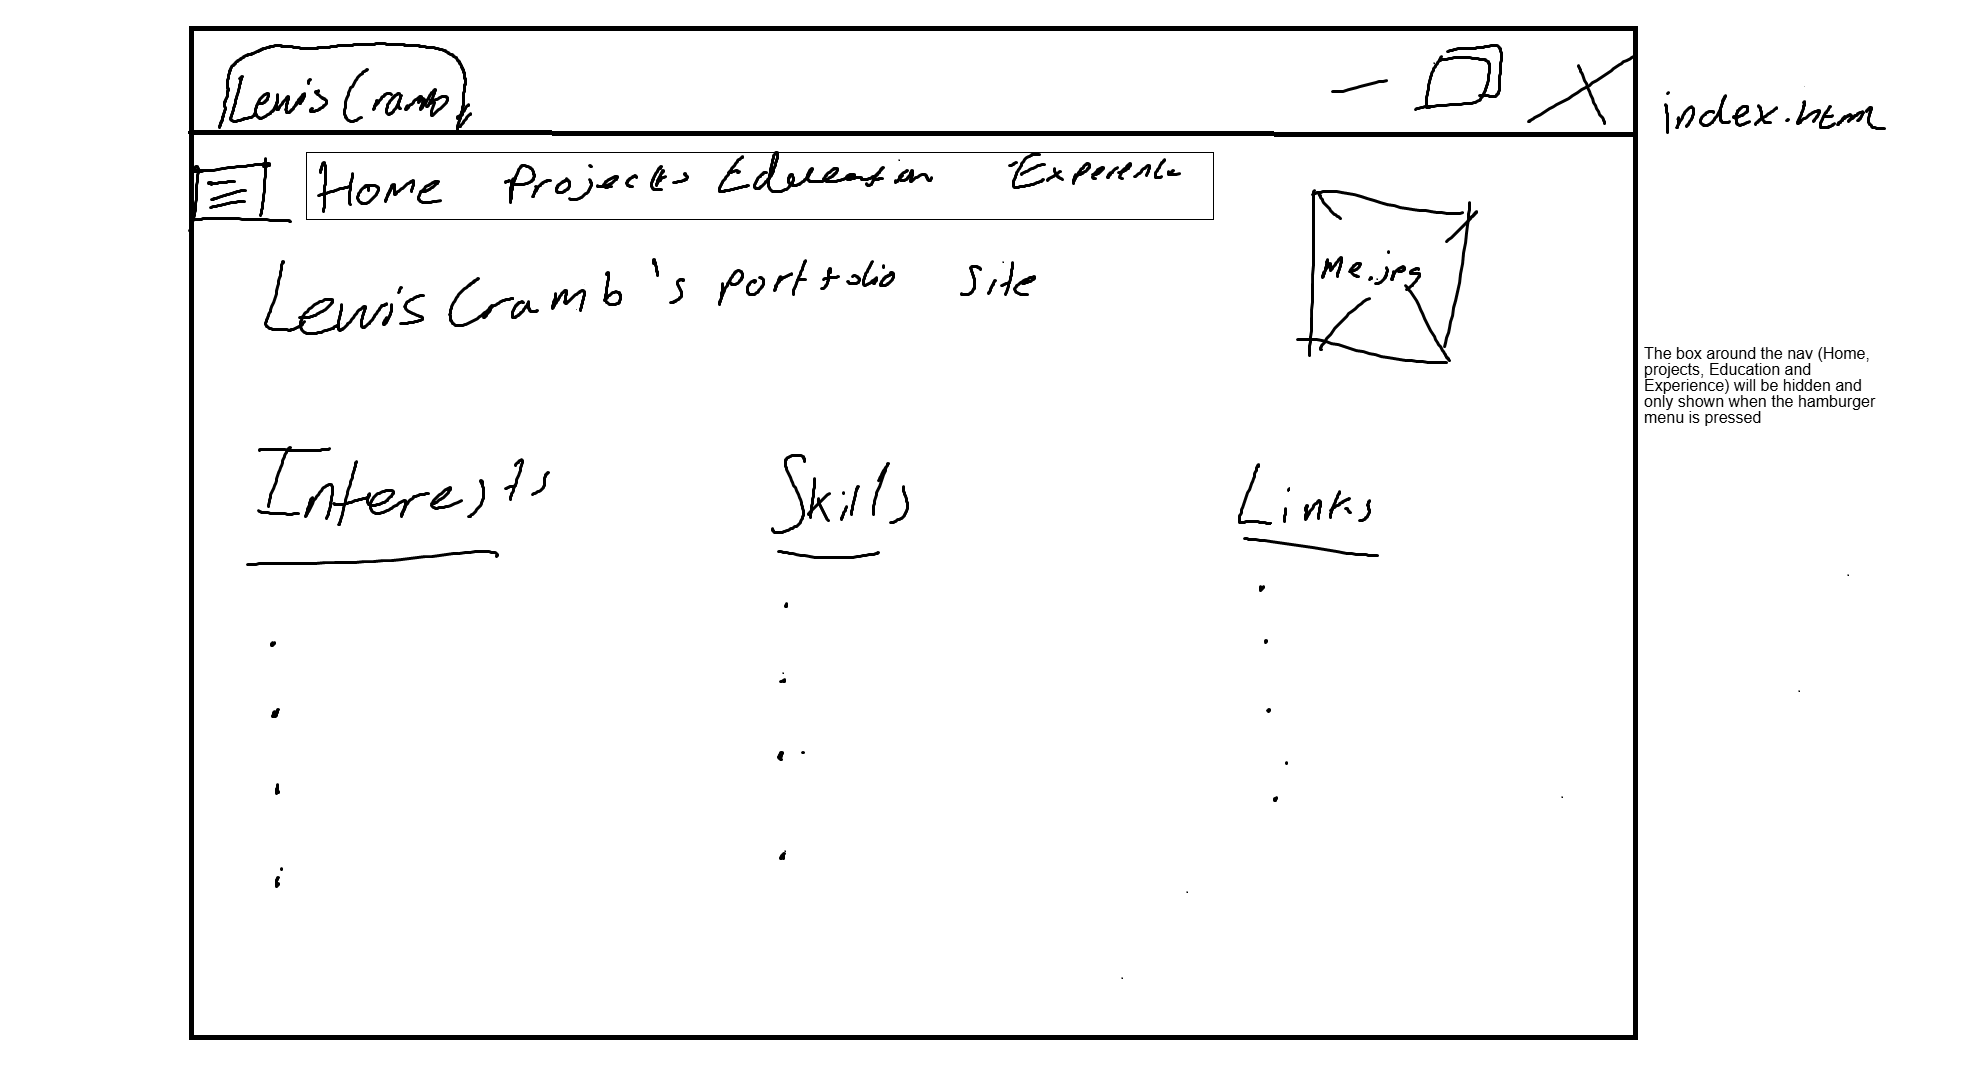
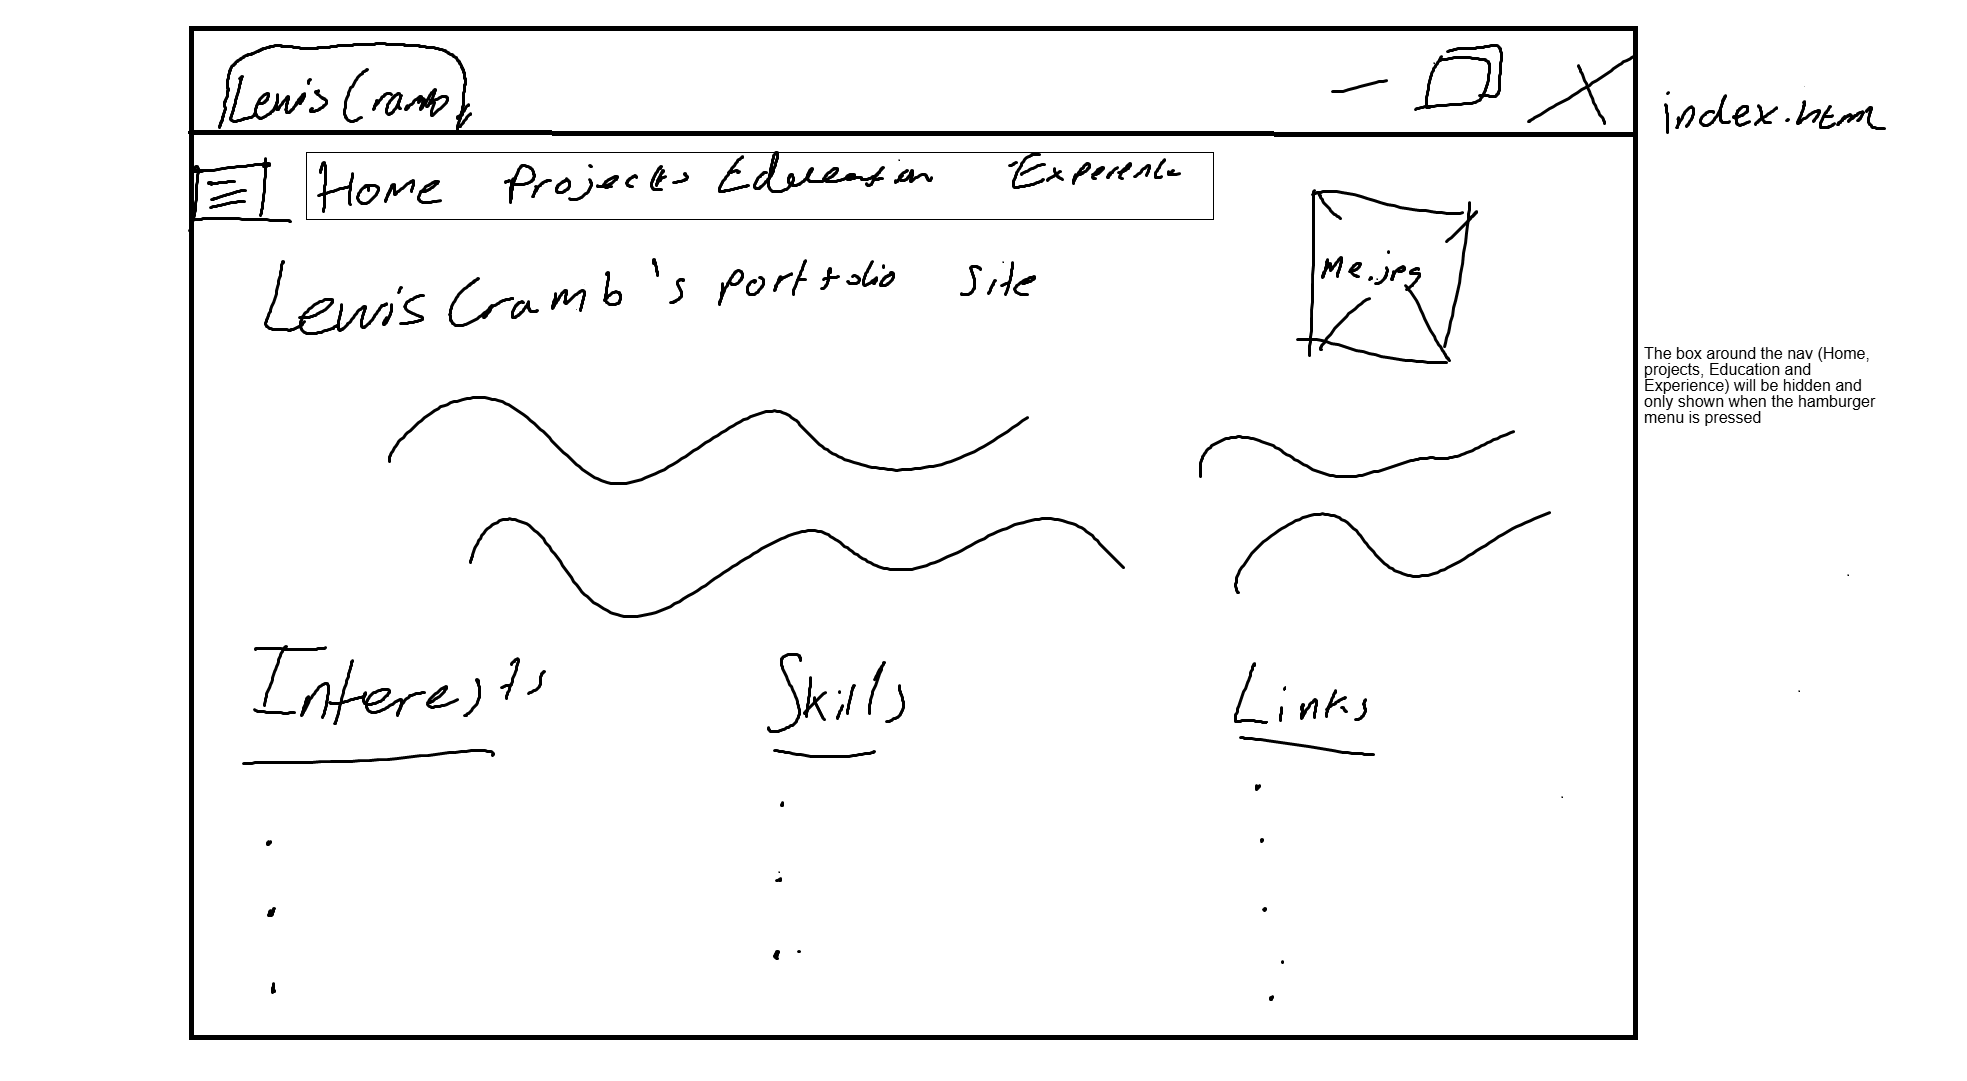
Index page css

diff --git a/HTML/index.html b/HTML/index.html
@@ -3,6 +3,7 @@
     <head>
         <title>Lewis Cramb's Portfolio</title>
         <link rel="stylesheet" href="../CSS/style.css">
+        <link rel="stylesheet" href="../CSS/index.css">
     </head>
     <body>
         <nav>
@@ -15,15 +16,28 @@
             </div>
         </nav>
 
-        <main>
+        <main> 
             <div class="topOfPage">
                 <h1 class="underlined">Lewis Cramb's Portfolio Site</h1>
                 <img id="selfImg" src="../Images/meImg.png" alt="Image of myself"/>
             </div>
 
-            <br /> <br /> <br /> <br />
+            <div id="infoDump">
+                <p> <!-- intro para -->
+                    My name is Lewis Cramb, I am a second year student at the University of Glasgow, studying towards a Bachelor's degree in Software Engineering.<br />
+                    I am a hardworking individual with a passion and desire to learn. Take this site, for example. I've learned how to write JS and how to host a site (along with a recap of HTML and CSS) just to make this work. <br />
+                    Currently, I am applying for an internship over my summer. I am keen to find a position as an intern as this allows me to apply what I have learnt to a real-world environment, which will both teach me more about how the digital world works and help me to learn real-life coding practices.
+                </p>
+                <br />
+                <p> <!-- site recap para -->
+                    As you will find out in this site, I've undertaken many different avenues to get me to where I am. I  was a Young Advisor with the Children and Young People's Commissioner Scotland from 13 until 18. This was a volunteer role where I was able to influence policy and acts written by CYPCS in order to better the lives of children across Scotland, undertaking in many different events from leading workshops to recruiting the head of the organisation alongside MSPs and even a brief stint on the BBC radio!
+                    <br />I have also spent time volunteering as a leader of my local Cub Pack. I started in the 24th Glasgow (Bearsden) Scout Group from 8 years of age, staying long enough to complete my Duke of Edinburgh Gold award and my King's Scout award before coming back as a leader to give back to those who gave loads to me.
+                    <br />Most recently I was employed by JE Restaurants Ltd, a McDonald's Franchisee, to work in my local McDonald's branch where I learned to work under pressure and in a fast paced environement, as well as how to stay busy with tasks so that customers are satisifed. 
+                </p>
+            </div>
+
             <div id="bulletLists">
-                <div id="interests">
+                <div class="lst">
                     <h2 class="underlined">Interests</h2>
                     <ul>
                         <li>Hiking</li>
@@ -32,7 +46,7 @@
                         <li>Films and TV shows</li>
                     </ul>
                 </div>
-                <div id="skills">
+                <div class="lst">
                     <h2 class="underlined">Skills</h2>
                     <ul>
                         <li>Python</li>
@@ -43,7 +57,7 @@
                         <li>High pressure environments</li>
                     </ul>
                 </div>
-                <div id="links">
+                <div class="lst">
                     <h2 class="underlined">Links</h2>
                     <ul>
                         <li><a href="https://www.linkedin.com/in/lewis-cramb/" target="_blank">LinkedIn</a></li>

diff --git a/CSS/index.css b/CSS/index.css
@@ -1,0 +1,26 @@
+/* This file is for the index page specifically */
+h1{
+    float:left ;
+    display:inline ;
+}
+
+
+
+.lst{ /* this is for all lists, hence class */
+    display:inline-grid ;
+    margin-right:310px ;
+    margin-top:100px ;
+}
+
+#bulletLists{ /* This is just for the div for positioning of all lists at once */
+    margin-top:50px;
+    display:inline-block ;
+}
+
+#selfImg{
+    position:fixed ;
+    height:100px ;
+    width:100px ;
+    float:right ;
+    right:100px ;
+}

diff --git a/CSS/style.css b/CSS/style.css
@@ -1,0 +1,22 @@
+/* This file is for all the pages, keeps certain elements the same */
+
+body{
+    background-color:rgb(244, 244, 188);
+}
+
+
+.topOfPage{
+    display:inline-flex ;
+}
+
+.underlined{ /* this just makes sure everything is underlined if that is the only rule */
+    text-decoration:underline ;
+}
+
+#nav-bttn{
+    display:inline ;
+}
+
+#nav-bar{
+    display:none ;
+}

diff --git a/JS/script.js b/JS/script.js
@@ -5,3 +5,7 @@ function navbar(){ //this function switched the nav-bar from being hidden to bei
         document.getElementById("nav-bar").style.display = 'inline' ;
     }
 }
+
+function showNav(){
+    document.
+}

diff --git a/README.md b/README.md
@@ -13,7 +13,9 @@ I will be using HTML, CSS and JS in order to create a portfolio website for all 
 
 b311dfc - Third commit, this truthfully probably won't have any features that see the light of day however I have been practicing with JS and it feels very similar to Java hence how I managed to quickly create navbar(). I want to try to use document.getElementById() to try to create a generic baseplate for all of my pages?
 
-[commit num] - Fourth commit, made the html for the index page (not finalised, won't ever be) and condesed the Javascript to just be functions and not learning parts.
+5c3355f - Fourth commit, made the html for the index page (not finalised, won't ever be) and condesed the Javascript to just be functions and not learning parts.
+
+[commit num] - Fifth commit, I edited the wireframe slightly to fit the page better and added some more html. Mainly though this commit was spent styling the website using the style.css and index.css file, split such that style.css is for repeated elements.
 
 # Links
 
